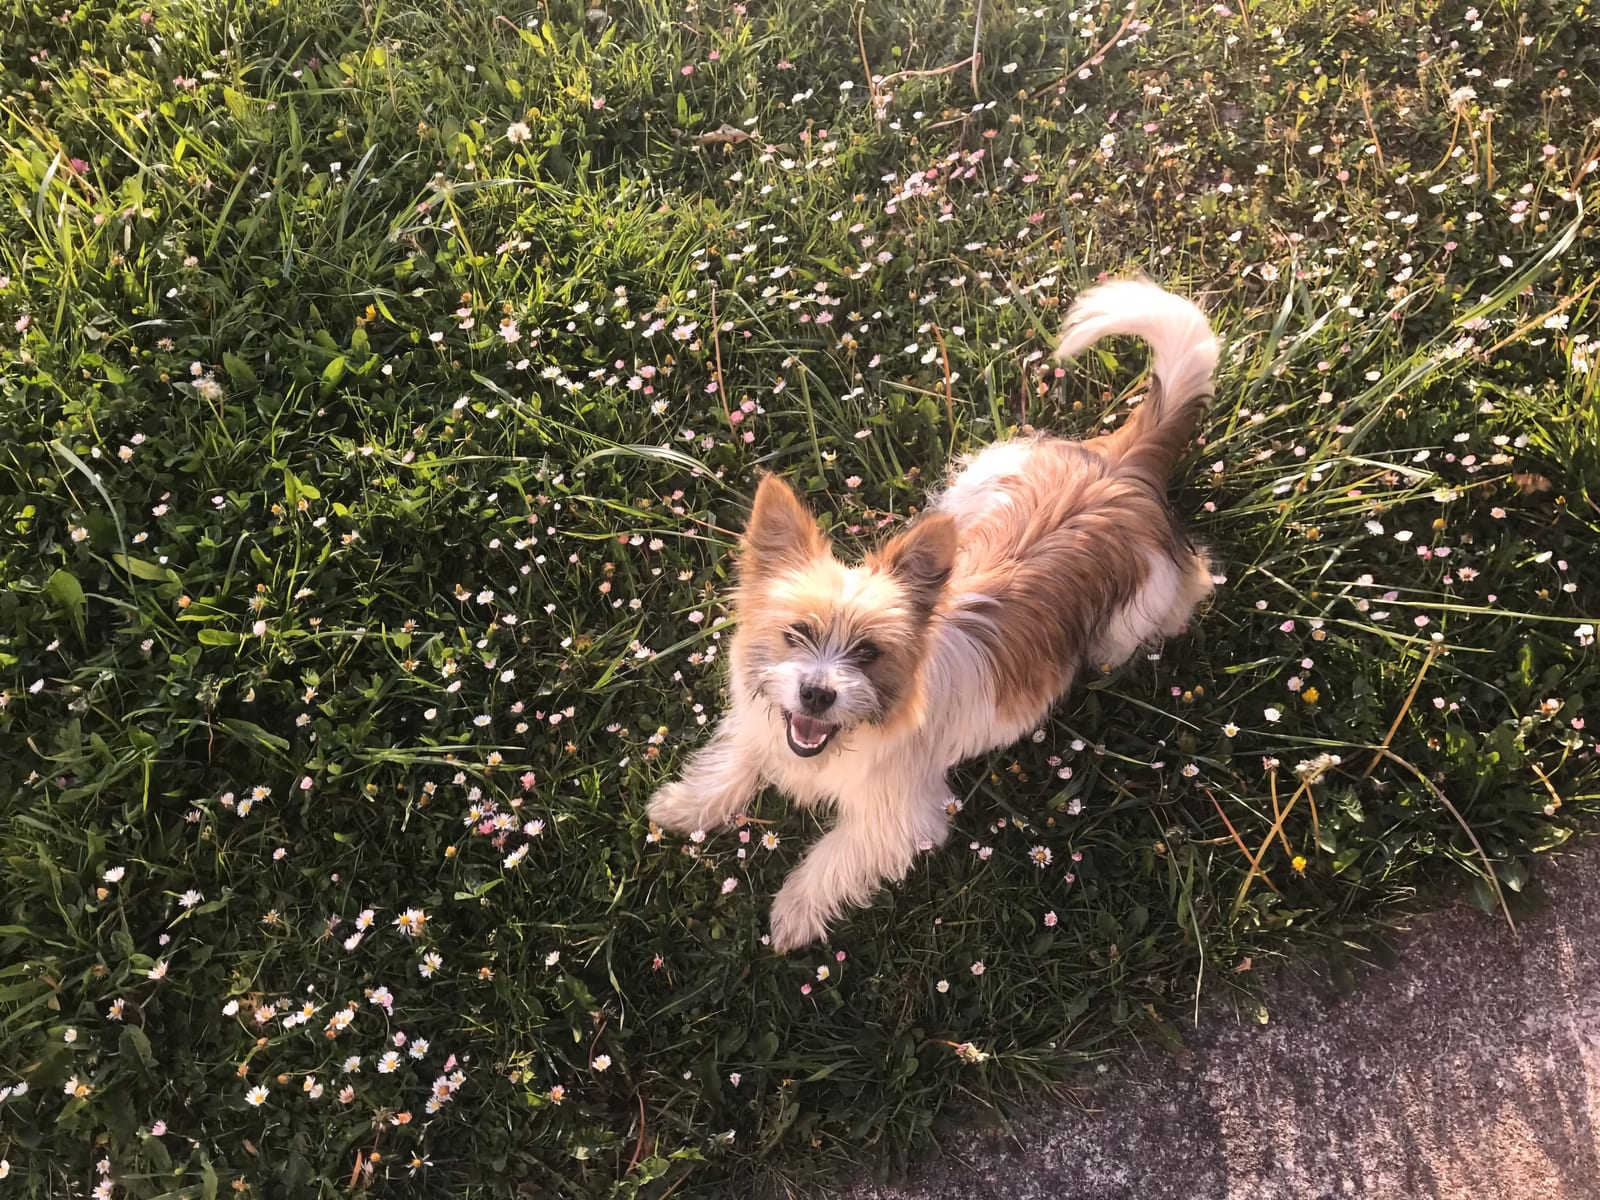
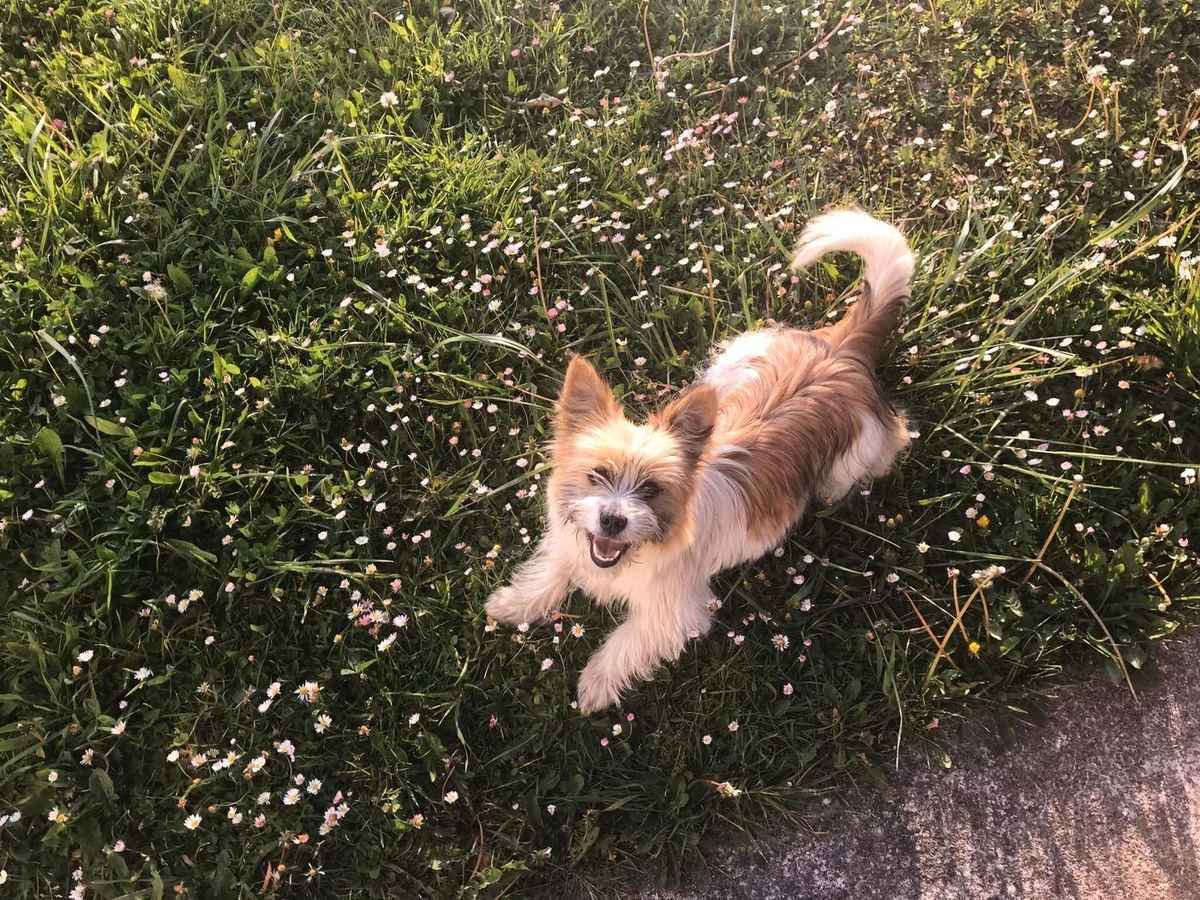
perf: compress 5 oversized images, save 8MB total
- why-does-my-cat-meow-at-night.jpg 5693KB->294KB (5632x3755 -> 1400x933)
- cat-hairballs.jpg 2633KB->123KB (6016x4000 -> 1400x931)
- can-dogs-eat-milk.jpg 495KB->176KB (900x1600)
- can-dogs-eat-chicken.jpg 484KB->328KB (1200x900)
- dog-not-eating-but-drinking-water.jpg 331KB->271KB (1400x934)
- update width/height attrs in 5 article HTMLs
- assets/img 20MB -> 12MB

diff --git a/public/cat/why-does-my-cat-meow-at-night/index.html b/public/cat/why-does-my-cat-meow-at-night/index.html
@@ -150,7 +150,7 @@
   <div class="eyebrow">CAT CARE</div>
   <h1>Why Does My Cat Meow at Night — and How to Make It Stop</h1>
   <p class="lede">A cat yelling at your bedroom door at 3 a.m. is not being difficult. The cause is usually energy, hunger, or a habit you accidentally trained — and the fix is a routine, not a punishment.</p>
-  <img class="article-img" src="/assets/img/why-does-my-cat-meow-at-night.jpg" width="5632" height="3755" decoding="async" loading="lazy" alt="Why Does My Cat Meow at Night — and How to Make It Stop">
+  <img class="article-img" src="/assets/img/why-does-my-cat-meow-at-night.jpg" width="1400" height="933" decoding="async" loading="lazy" alt="Why Does My Cat Meow at Night — and How to Make It Stop">
   <div class="doc">
         <h2>Cats are crepuscular, not nocturnal</h2>
         <p>Cats are most active at dawn and dusk — the hunting hours of their wild ancestors. An indoor cat that slept all day and got no exercise while you were at work is wide awake exactly when you are falling asleep. Some night noise is therefore normal; the goal is to move it, not to erase it.</p>

diff --git a/public/cat/cat-hairballs/index.html b/public/cat/cat-hairballs/index.html
@@ -150,7 +150,7 @@
   <div class="eyebrow">CAT CARE</div>
   <h1>Cat Hairballs — What's Normal and When to Worry</h1>
   <p class="lede">A hairball now and then is normal grooming housekeeping. The pattern is what matters — how often, how easily, and whether your cat is otherwise fine.</p>
-  <img class="article-img" src="/assets/img/cat-hairballs.jpg" width="6016" height="4000" decoding="async" loading="lazy" alt="Cat Hairballs — What's Normal and When to Worry">
+  <img class="article-img" src="/assets/img/cat-hairballs.jpg" width="1400" height="931" decoding="async" loading="lazy" alt="Cat Hairballs — What's Normal and When to Worry">
   <div class="doc">
         <h2>Why hairballs happen</h2>
         <p>Cats groom themselves with barbed tongues that pull loose fur out of the coat — and the fur gets swallowed. Most passes through the gut without trouble; some collects into a compact wet tube that comes back up. Long-haired cats and heavy shedders produce more, simply because they swallow more fur.</p>

diff --git a/public/dog-nutrition/can-dogs-eat-milk/index.html b/public/dog-nutrition/can-dogs-eat-milk/index.html
@@ -150,7 +150,7 @@
   <div class="eyebrow">DOG NUTRITION</div>
   <h1>Can Dogs Drink Milk? Usually Not Worth It</h1>
   <p class="lede">Most dogs should skip milk. Adult dogs are commonly lactose intolerant, and a bowl of milk more often leads to gas and diarrhea than any benefit.</p>
-  <img class="article-img" src="/assets/img/can-dogs-eat-milk.jpg" width="1600" height="2844" decoding="async" loading="lazy" alt="Can Dogs Drink Milk? Usually Not Worth It">
+  <img class="article-img" src="/assets/img/can-dogs-eat-milk.jpg" width="900" height="1600" decoding="async" loading="lazy" alt="Can Dogs Drink Milk? Usually Not Worth It">
   <div class="doc">
         <h2>Is milk safe for dogs?</h2>
         <p>A few laps of milk will not harm most dogs, but it is not a good regular drink. As puppies wean, they lose much of the lactase enzyme that digests lactose, so milk sugar ferments in the gut and causes loose stools.</p>

diff --git a/public/dog-nutrition/can-dogs-eat-chicken/index.html b/public/dog-nutrition/can-dogs-eat-chicken/index.html
@@ -150,7 +150,7 @@
   <div class="eyebrow">DOG NUTRITION</div>
   <h1>Can Dogs Eat Chicken? Cooked, Plain, Boneless</h1>
   <p class="lede">Yes, plain cooked chicken is one of the safest, most common proteins for dogs. The risks are cooked bones and rich seasoning, not the meat itself.</p>
-  <img class="article-img" src="/assets/img/can-dogs-eat-chicken.jpg" width="1600" height="1200" decoding="async" loading="lazy" alt="Can Dogs Eat Chicken? Cooked, Plain, Boneless">
+  <img class="article-img" src="/assets/img/can-dogs-eat-chicken.jpg" width="1200" height="900" decoding="async" loading="lazy" alt="Can Dogs Eat Chicken? Cooked, Plain, Boneless">
   <div class="doc">
         <h2>Is chicken good for dogs?</h2>
         <p>Boiled or baked chicken with rice is the classic bland meal for a dog with an upset stomach, and it is a solid everyday protein for most dogs.</p>

diff --git a/public/dog-health/dog-not-eating-but-drinking-water/index.html b/public/dog-health/dog-not-eating-but-drinking-water/index.html
@@ -150,7 +150,7 @@
   <div class="eyebrow">DOG HEALTH</div>
   <h1>Dog Not Eating but Drinking Water — Should You Worry?</h1>
   <p class="lede">A dog that drinks but refuses food for a day is often just under the weather. Skipping food for more than two days, or any lethargy with it, needs a vet.</p>
-  <img class="article-img" src="/assets/img/dog-not-eating-but-drinking-water.jpg" width="1600" height="1067" decoding="async" loading="lazy" alt="Dog Not Eating but Drinking Water — Should You Worry?">
+  <img class="article-img" src="/assets/img/dog-not-eating-but-drinking-water.jpg" width="1400" height="934" decoding="async" loading="lazy" alt="Dog Not Eating but Drinking Water — Should You Worry?">
   <div class="doc">
         <h2>Benign reasons</h2>
         <ul>
